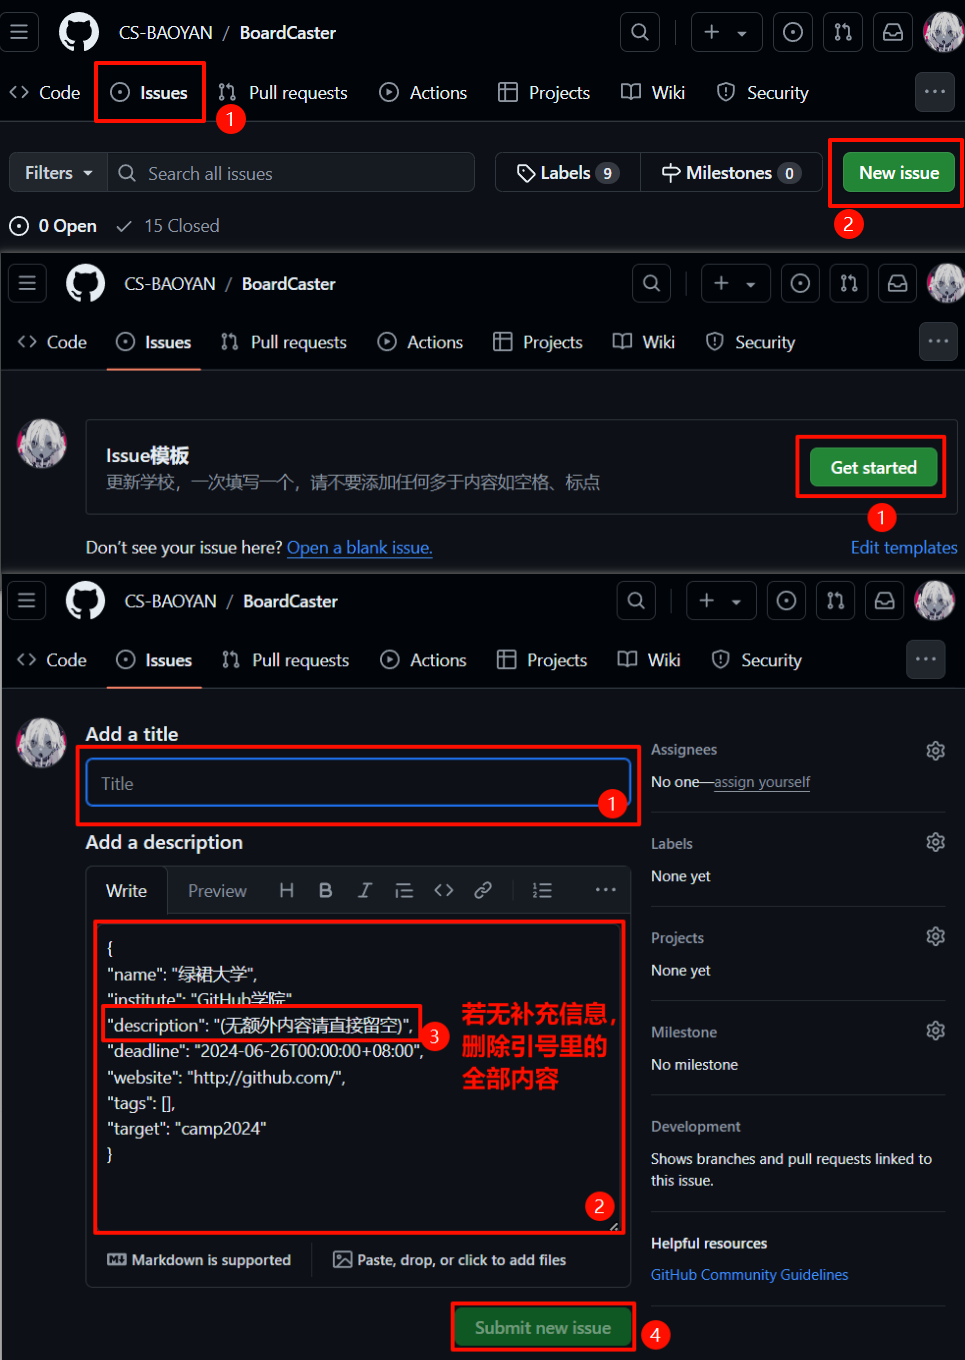
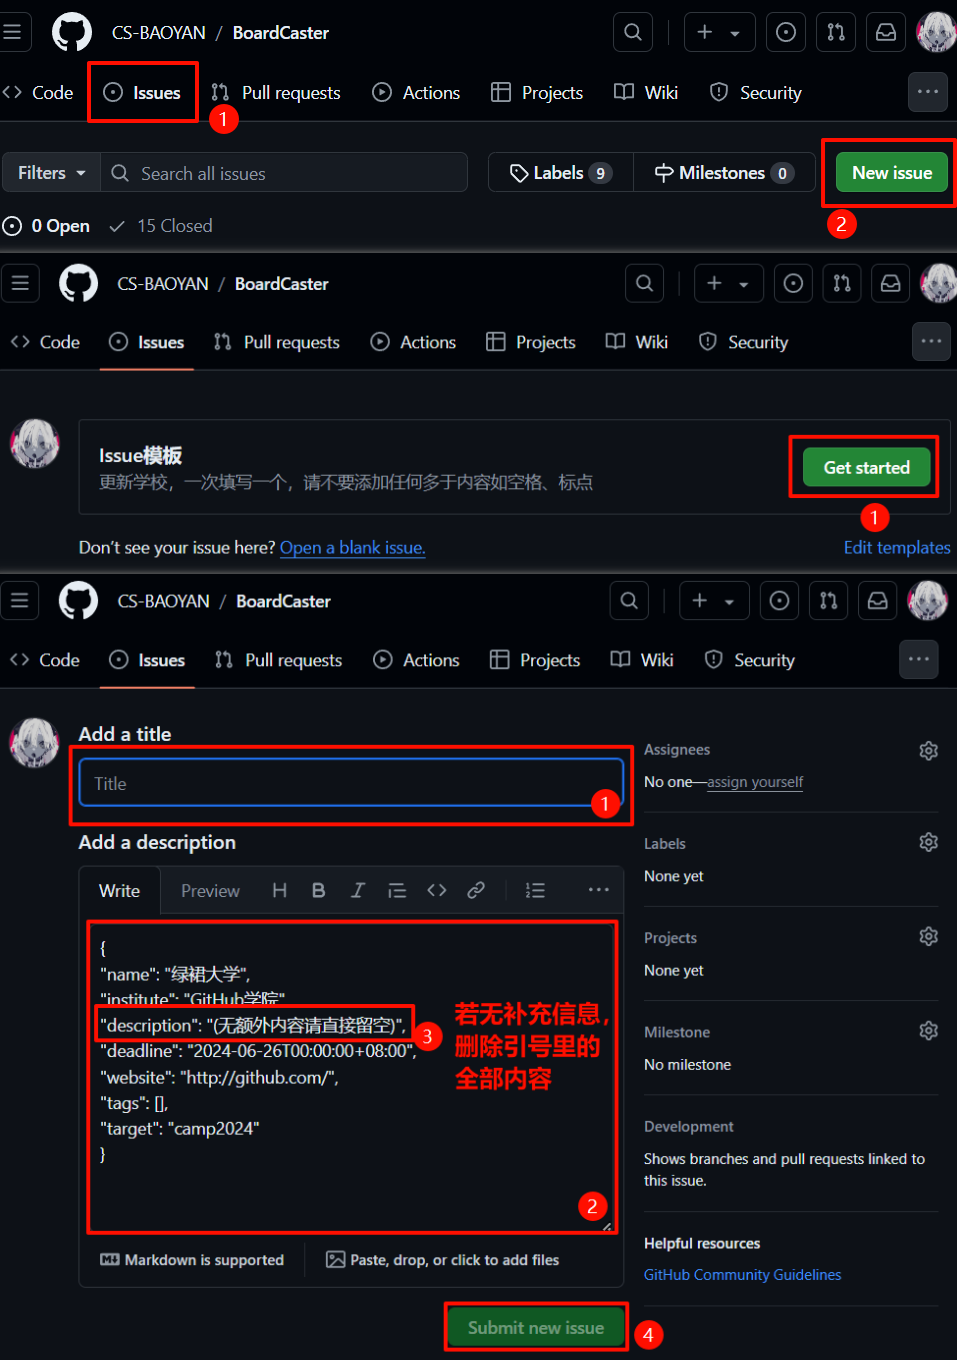
update README.md

diff --git a/README.md b/README.md
@@ -10,7 +10,7 @@ BoardCaster 是 CSBAOYAN 相关的数据库，使用JSON文件管理格式化的
 
 不擅长使用 Github 的贡献者，我们提供了图文教学如下：
 
-<img src="./assets/IssueWorkflow.png" alt="workflow" style="display: block; margin: 0 auto; zoom: 50%;">
+<img src="./assets/IssueWorkflow.png" alt="workflow" style="display: block; margin: 0 auto; zoom: 20%;">
 
 ### 修改信息
 
